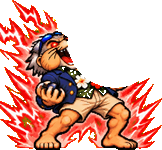
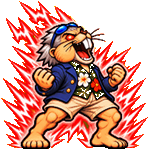
Criceto mannaro di Yoghi: trasformazione e balzo corretti (lds-29)
Claude-Session: https://claude.ai/code/session_01QVsszvbkaibvmeWVEak6Wq

diff --git a/sw.js b/sw.js
@@ -1,5 +1,5 @@
 // Lottatori di Strada - funziona anche senza rete e si aggiorna da solo.
-const VERSIONE='lds-28';
+const VERSIONE='lds-29';
 const FILE=['./','./index.html','./manifest.webmanifest','./icona-192.png','./icona-512.png'];
 self.addEventListener('install',e=>{ e.waitUntil(caches.open(VERSIONE).then(c=>c.addAll(FILE))); self.skipWaiting(); });
 self.addEventListener('activate',e=>{ e.waitUntil(caches.keys().then(k=>Promise.all(k.filter(x=>x!==VERSIONE).map(x=>caches.delete(x)))).then(()=>self.clients.claim())); });
